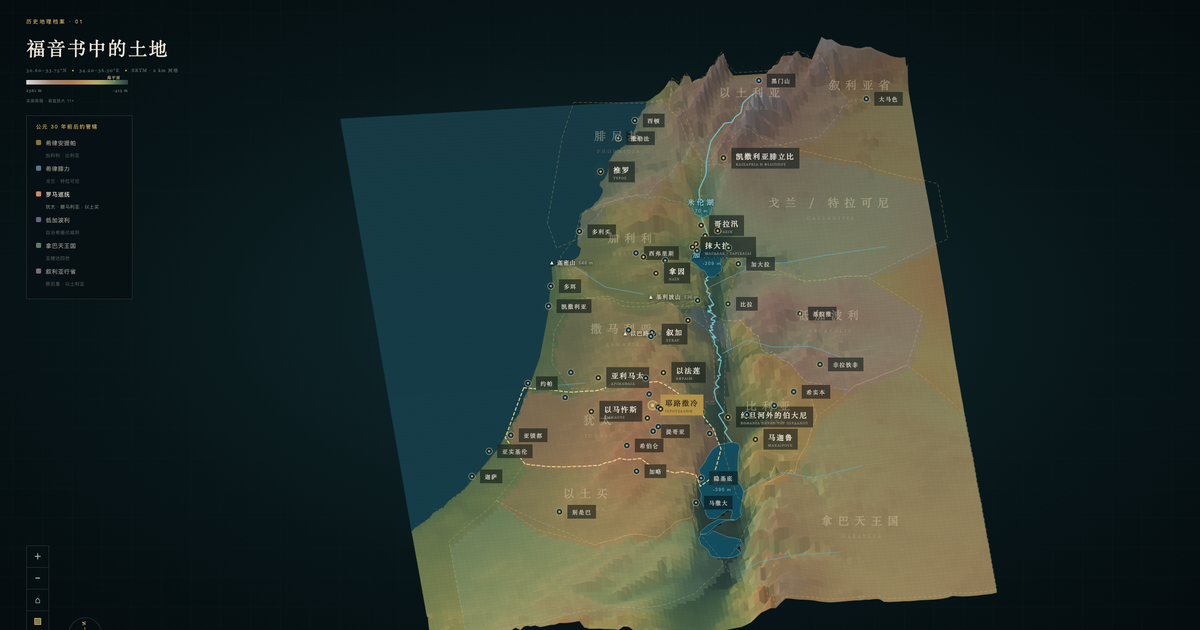
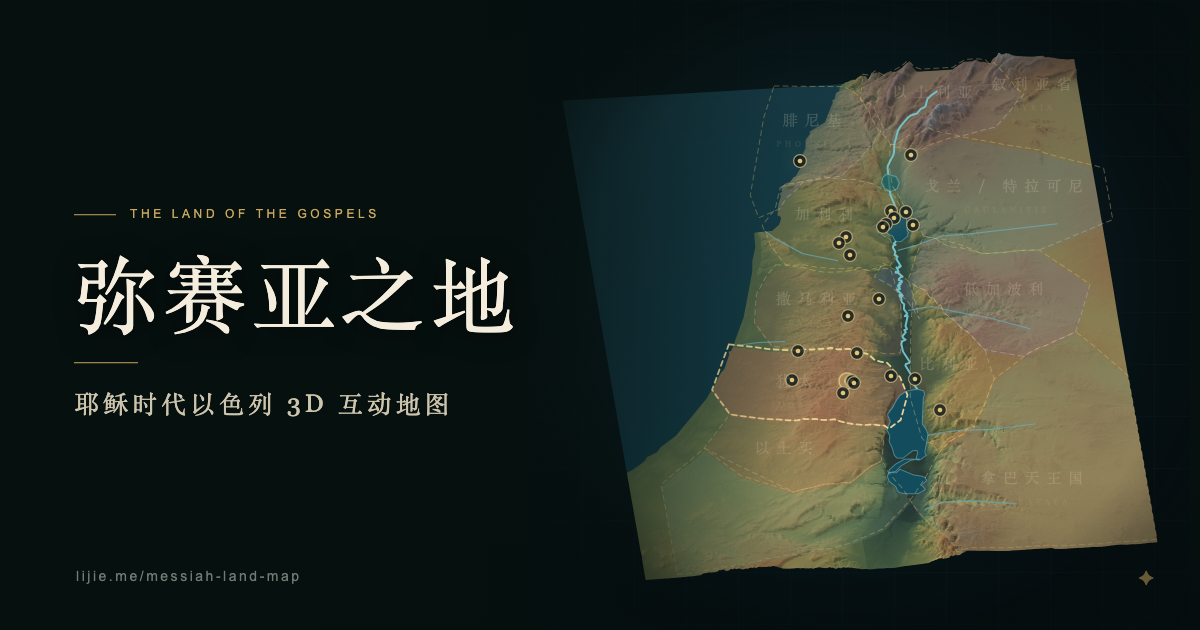
Redraw the share card from the map itself
The old card was an illustration. This one is the terrain the site
actually renders — same view a visitor lands on, every overlay hidden,
the background towns dropped so only the 24 narrated sites show as
points, and the type set in the site's own faces beside it.

The og:image URL is now absolute. A scraper has no page to resolve a
relative one against, and only some of them guess. It also carries a ?v=
because the image changed under an unchanged filename, and the platforms
cache a scraped image far longer than they cache the page.

Claude-Session: https://claude.ai/code/session_01CGqBVTHskBnejWLdWLQNhX

diff --git a/index.html b/index.html
@@ -8,9 +8,17 @@
     <meta property="og:type" content="website" />
     <meta property="og:title" content="弥赛亚之地｜耶稣时代以色列 3D 互动地图" />
     <meta property="og:description" content="转动地形，沿着福音书的记载，重新理解故事发生的距离与地貌。" />
-    <meta property="og:image" content="og.png" />
+    <meta property="og:url" content="https://lijie.me/messiah-land-map/" />
+    <meta property="og:site_name" content="lijie.me" />
+    <!-- Absolute, because a scraper resolves this against nothing but itself.
+         The ?v= is a cache-buster: the card was redrawn, and the platforms hold
+         on to a scraped image far longer than they hold on to the page. -->
+    <meta property="og:image" content="https://lijie.me/messiah-land-map/og.png?v=2" />
+    <meta property="og:image:width" content="1200" />
+    <meta property="og:image:height" content="630" />
+    <meta property="og:image:alt" content="弥赛亚之地：耶稣时代以色列 3D 互动地图" />
     <meta name="twitter:card" content="summary_large_image" />
-    <meta name="twitter:image" content="og.png" />
+    <meta name="twitter:image" content="https://lijie.me/messiah-land-map/og.png?v=2" />
   </head>
   <body>
     <div id="root"></div>
